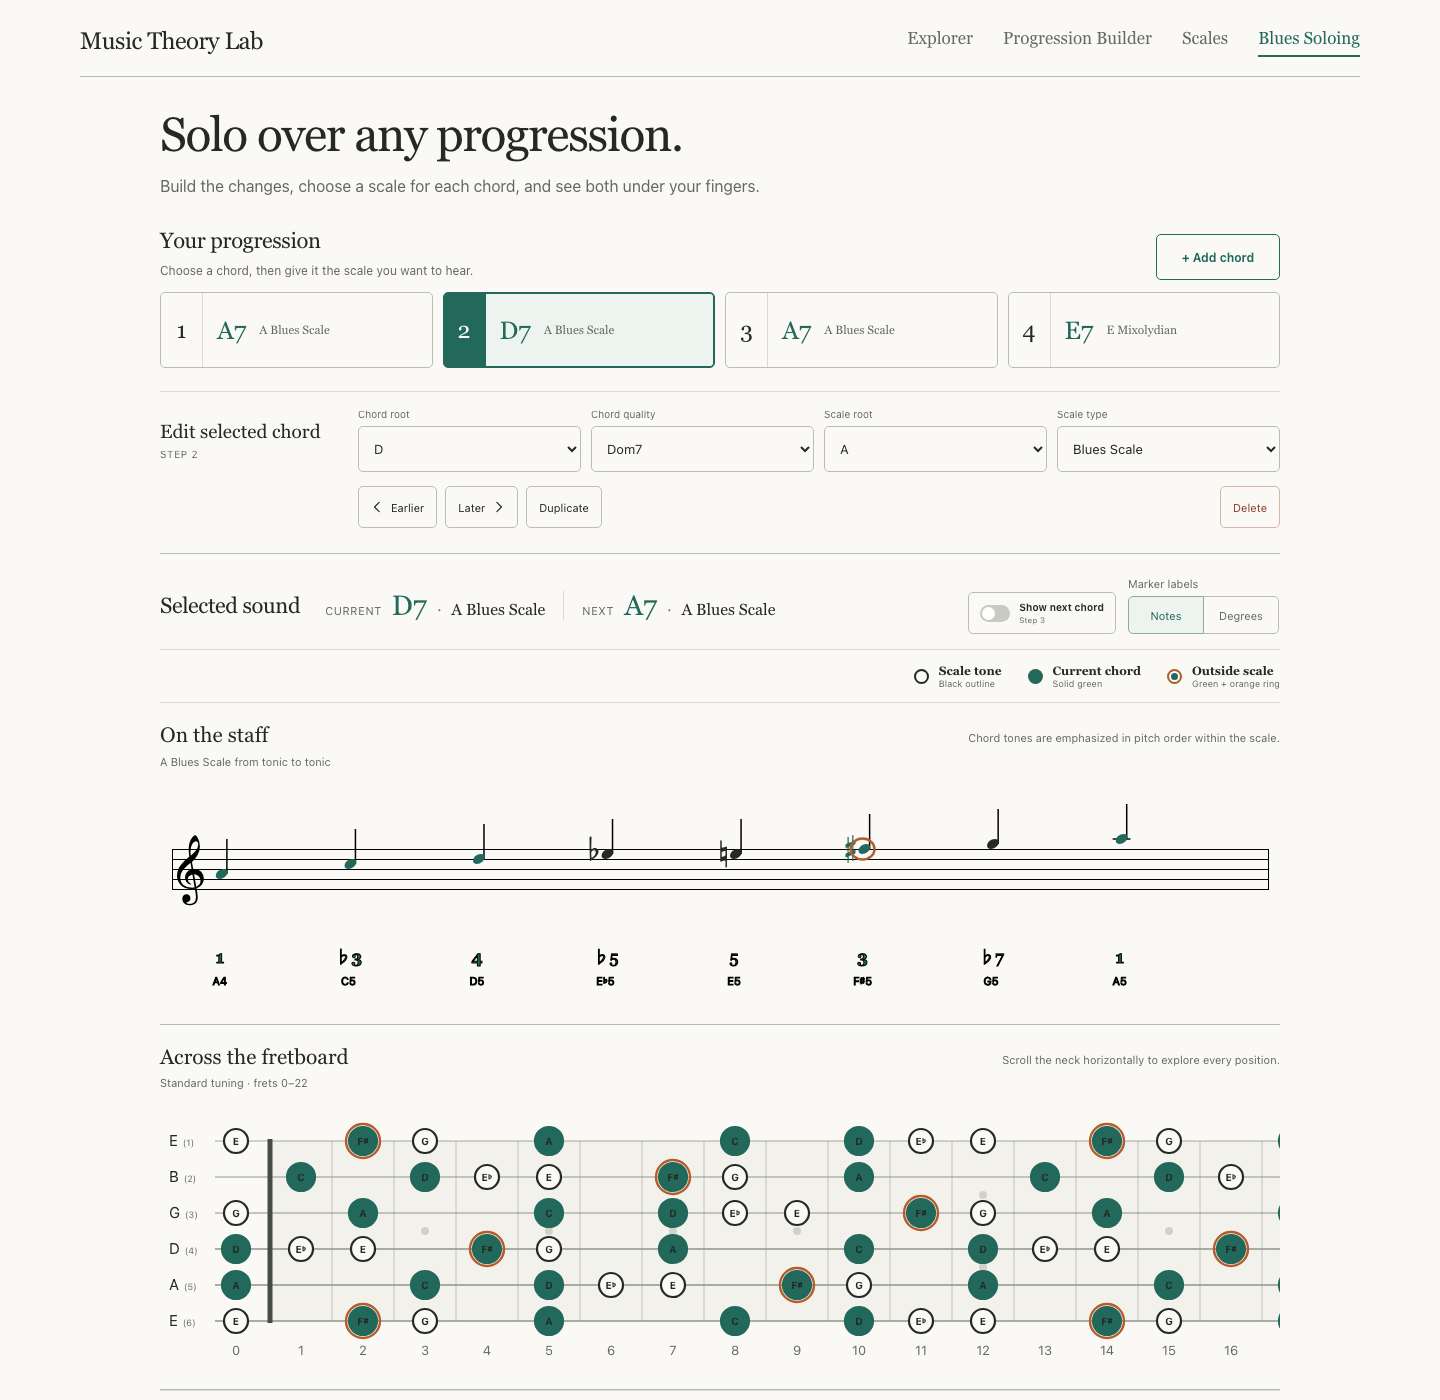
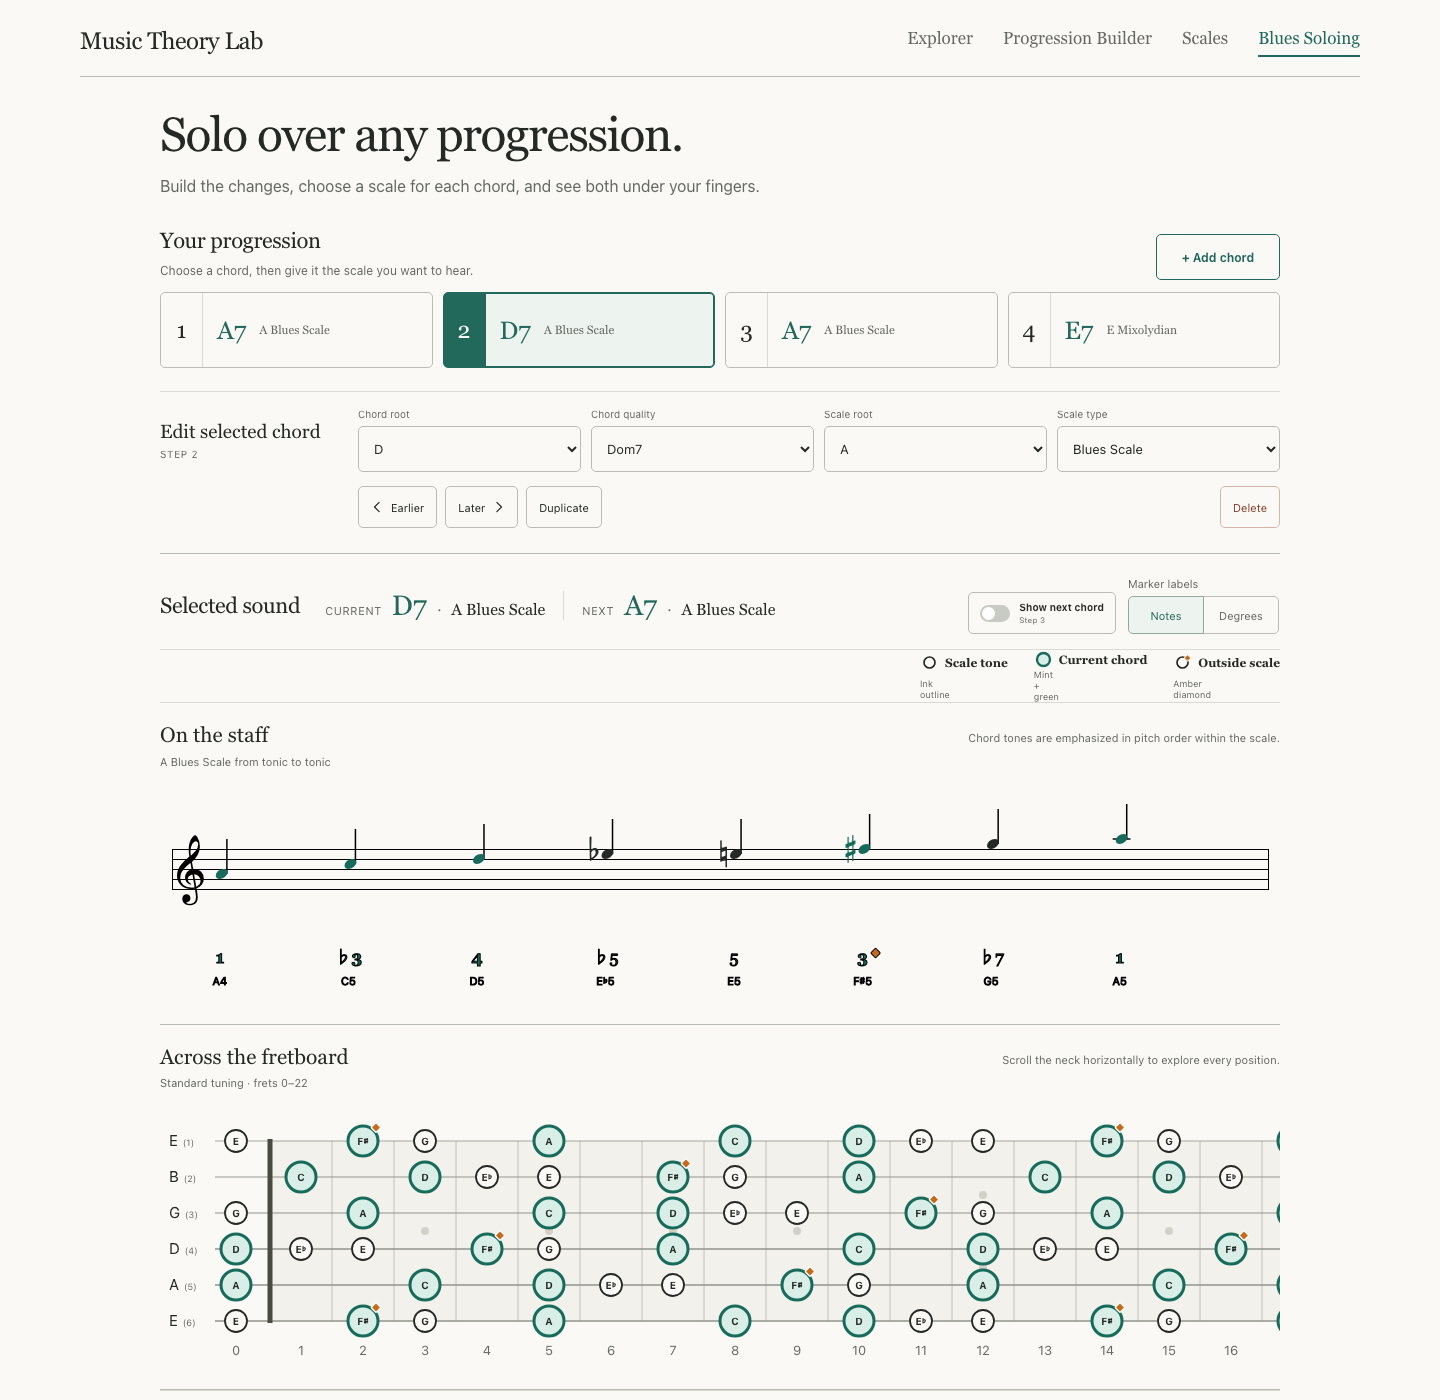
Redesign soloing note markers

diff --git a/src/components/SoloingFretboardView.tsx b/src/components/SoloingFretboardView.tsx
@@ -4,8 +4,10 @@ import { displayNote } from '../presentation/notes'
 
 export type SoloingLabelMode = 'notes' | 'degrees'
 
-const CURRENT_COLOR = '#22685b'
-const NEXT_COLOR = '#b55c2a'
+const CURRENT_COLOR = '#176b5b'
+const CURRENT_FILL = '#d8eee7'
+const OUTSIDE_COLOR = '#c56a1a'
+const NEXT_COLOR = '#4666b0'
 const SCALE_COLOR = '#252925'
 const PAPER_COLOR = '#faf9f6'
 
@@ -33,19 +35,27 @@ interface LegendMarkerProps {
 }
 
 function LegendMarker({ kind }: LegendMarkerProps) {
-  const common = { display: 'block', width: 15, height: 15, borderRadius: '50%' }
-  if (kind === 'scale') return <i aria-hidden="true" style={{ ...common, background: PAPER_COLOR, border: `2px solid ${SCALE_COLOR}` }} />
-  if (kind === 'current') return <i aria-hidden="true" style={{ ...common, background: CURRENT_COLOR }} />
-  if (kind === 'next') return <i aria-hidden="true" style={{ ...common, background: PAPER_COLOR, border: `2px solid ${NEXT_COLOR}` }} />
-  return <i aria-hidden="true" style={{ ...common, background: CURRENT_COLOR, border: `2px solid ${NEXT_COLOR}`, outline: `2px solid ${PAPER_COLOR}`, outlineOffset: -4 }} />
+  const current = kind === 'current'
+  return <svg aria-hidden="true" width="19" height="19" viewBox="0 0 19 19">
+    {kind === 'next' && <circle cx="9.5" cy="9.5" r="8" fill="none" stroke={NEXT_COLOR} strokeWidth="1.8" strokeDasharray="3 2" />}
+    <circle
+      cx="9.5"
+      cy="9.5"
+      r={current ? 6.5 : 5.5}
+      fill={current ? CURRENT_FILL : PAPER_COLOR}
+      stroke={current ? CURRENT_COLOR : SCALE_COLOR}
+      strokeWidth={current ? 2.4 : 1.7}
+    />
+    {kind === 'outside' && <rect x="12.1" y="2.6" width="4.8" height="4.8" rx=".7" fill={OUTSIDE_COLOR} stroke={PAPER_COLOR} strokeWidth="1" transform="rotate(45 14.5 5)" />}
+  </svg>
 }
 
 export function SoloingVisualLegend({ showNextChord = false }: { readonly showNextChord?: boolean }) {
   const items = [
-    { kind: 'scale' as const, label: 'Scale tone', detail: 'Black outline' },
-    { kind: 'current' as const, label: 'Current chord', detail: 'Solid green' },
-    ...(showNextChord ? [{ kind: 'next' as const, label: 'Next chord', detail: 'Orange outline' }] : []),
-    { kind: 'outside' as const, label: 'Outside scale', detail: 'Green + orange ring' },
+    { kind: 'scale' as const, label: 'Scale tone', detail: 'Ink outline' },
+    { kind: 'current' as const, label: 'Current chord', detail: 'Mint + green' },
+    { kind: 'outside' as const, label: 'Outside scale', detail: 'Amber diamond' },
+    ...(showNextChord ? [{ kind: 'next' as const, label: 'Next chord', detail: 'Blue dashed halo' }] : []),
   ]
   return <div className="transition-legend" aria-label="Soloing visualization legend">
     {items.map(item => <span key={item.kind}>
@@ -96,7 +106,7 @@ export function SoloingFretboardView({
     >
       <title id={titleId}>{displayNote(currentChord.name)} chord tones over {displayNote(scale.name)} on guitar</title>
       <desc id={descriptionId}>
-        High E is at the top and low E is at the bottom. Frets {model.fretStart} through {model.fretEnd}. White circles with black borders are selected-scale tones outside the current chord. Solid green markers are current-chord tones. An orange ring around a green marker means that chord tone falls outside the selected scale. {showNextChord && nextChord ? `Orange outlines also show tones in the next chord, ${displayNote(nextChord.name)}.` : 'The next-chord overlay is off.'} Labels show {labelMode === 'notes' ? 'note names' : 'degrees'}. {visiblePositions.map(position => `String ${position.string} fret ${position.fret}: ${displayNote(position.pitchClass.name)}, ${spokenRole(position, currentChord, nextChord, showNextChord)}`).join('; ')}.
+        High E is at the top and low E is at the bottom. Frets {model.fretStart} through {model.fretEnd}. Small paper circles with ink borders are selected-scale tones outside the current chord. Larger mint circles with heavy green borders are current-chord tones. An amber diamond marks a chord tone outside the selected scale. {showNextChord && nextChord ? `Blue dashed halos show tones in the next chord, ${displayNote(nextChord.name)}.` : 'The next-chord overlay is off.'} Labels show {labelMode === 'notes' ? 'note names' : 'degrees'}. {visiblePositions.map(position => `String ${position.string} fret ${position.fret}: ${displayNote(position.pitchClass.name)}, ${spokenRole(position, currentChord, nextChord, showNextChord)}`).join('; ')}.
       </desc>
 
       <rect x={nut} y="46" width={end - nut} height="180" className="transition-neck" fill="#f3f1eb" />
@@ -125,8 +135,7 @@ export function SoloingFretboardView({
         const isCurrent = Boolean(position.currentChordTone)
         const isNext = showNextChord && Boolean(position.nextChordTone)
         const isScale = Boolean(position.scaleTone)
-        const isCurrentOutsideScale = isCurrent && !isScale
-        const hasOrangeRing = isCurrentOutsideScale || isNext
+        const isOutsideScale = !isScale
         const label = markerLabel(position, labelMode, showNextChord)
         const x = fretX(position.fret)
         const y = stringY(position.string)
@@ -134,23 +143,35 @@ export function SoloingFretboardView({
         return <g key={`${position.string}-${position.fret}`} className="transition-position" transform={`translate(${x}, ${y})`}>
           <circle
             className="transition-marker"
-            r={isCurrent ? 14 : 12}
-            fill={isCurrent ? CURRENT_COLOR : PAPER_COLOR}
-            stroke={isCurrent ? CURRENT_COLOR : isScale ? SCALE_COLOR : NEXT_COLOR}
-            strokeWidth="2.2"
+            r={isCurrent ? 15 : 11}
+            fill={isCurrent ? CURRENT_FILL : PAPER_COLOR}
+            stroke={isCurrent ? CURRENT_COLOR : isScale ? SCALE_COLOR : OUTSIDE_COLOR}
+            strokeWidth={isCurrent ? 3 : 1.8}
           />
-          {hasOrangeRing && <circle
-            r="17"
+          {isNext && <circle
+            r={isCurrent ? 19 : 15.5}
             fill="none"
             stroke={NEXT_COLOR}
-            strokeWidth="2.4"
+            strokeWidth="2.2"
+            strokeDasharray="4 3"
+          />}
+          {isOutsideScale && <rect
+            x={isCurrent ? 9.5 : 7}
+            y={isCurrent ? -17 : -14.5}
+            width="7"
+            height="7"
+            rx="1"
+            fill={OUTSIDE_COLOR}
+            stroke={PAPER_COLOR}
+            strokeWidth="1.5"
+            transform={`rotate(45 ${isCurrent ? 13 : 10.5} ${isCurrent ? -13.5 : -11})`}
           />}
           <text
             textAnchor="middle"
             dominantBaseline="central"
             className="transition-label"
-            fill={isCurrent ? '#fff' : isScale ? SCALE_COLOR : NEXT_COLOR}
-            fontSize="10"
+            fill={SCALE_COLOR}
+            fontSize={isCurrent ? 11 : 9.5}
             fontWeight="700"
           >{label}</text>
         </g>

diff --git a/src/components/SoloingStaffView.tsx b/src/components/SoloingStaffView.tsx
@@ -4,9 +4,9 @@ import type { SoloingStaffModel, SoloingStaffTone } from '../music/soloing'
 import { displayNote } from '../presentation/notes'
 
 const SCALE_COLOR = '#252925'
-const CURRENT_COLOR = '#22685b'
-const NEXT_COLOR = '#b55c2a'
-const PAPER_COLOR = '#faf9f6'
+const CURRENT_COLOR = '#176b5b'
+const OUTSIDE_COLOR = '#c56a1a'
+const NEXT_COLOR = '#4666b0'
 
 function vexKey(tone: SoloingStaffTone) {
   const { pitch } = tone
@@ -35,16 +35,29 @@ function appendText(svg: SVGSVGElement, x: number, y: number, text: string, opti
   svg.append(label)
 }
 
-function appendRing(svg: SVGSVGElement, x: number, y: number, radius: number, color: string) {
+function appendNextHalo(svg: SVGSVGElement, x: number, y: number, radius: number) {
   const ring = document.createElementNS(svg.namespaceURI, 'ellipse')
   ring.setAttribute('cx', String(x))
   ring.setAttribute('cy', String(y))
   ring.setAttribute('rx', String(radius))
   ring.setAttribute('ry', String(radius - 1.5))
   ring.setAttribute('fill', 'none')
-  ring.setAttribute('stroke', color)
-  ring.setAttribute('stroke-width', '2.4')
+  ring.setAttribute('stroke', NEXT_COLOR)
+  ring.setAttribute('stroke-width', '2.2')
+  ring.setAttribute('stroke-dasharray', '4 3')
   svg.append(ring)
+}
+
+function appendOutsideDiamond(svg: SVGSVGElement, x: number, y: number) {
+  const diamond = document.createElementNS(svg.namespaceURI, 'rect')
+  diamond.setAttribute('x', String(x - 3.5))
+  diamond.setAttribute('y', String(y - 3.5))
+  diamond.setAttribute('width', '7')
+  diamond.setAttribute('height', '7')
+  diamond.setAttribute('rx', '1')
+  diamond.setAttribute('fill', OUTSIDE_COLOR)
+  diamond.setAttribute('transform', `rotate(45 ${x} ${y})`)
+  svg.append(diamond)
 }
 
 function describeTone(tone: SoloingStaffTone, showNextChord: boolean) {
@@ -102,12 +115,11 @@ export default function SoloingStaffView({ model, showNextChord = false }: Soloi
 
       const notes = visibleTones.map(tone => {
         const note = new StaveNote({ keys: [vexKey(tone)], duration: 'q' })
-        const isNextOnlyOutsideScale = !tone.isCurrentChordTone && tone.isNextChordTone && tone.isOutsideScale
-        const color = tone.isCurrentChordTone ? CURRENT_COLOR : isNextOnlyOutsideScale ? NEXT_COLOR : SCALE_COLOR
+        const color = tone.isCurrentChordTone ? CURRENT_COLOR : SCALE_COLOR
         note.setKeyStyle(0, {
-          fillStyle: isNextOnlyOutsideScale ? PAPER_COLOR : color,
+          fillStyle: color,
           strokeStyle: color,
-          lineWidth: isNextOnlyOutsideScale ? 2.2 : 1.4,
+          lineWidth: 1.4,
         })
         return note
       })
@@ -130,14 +142,11 @@ export default function SoloingStaffView({ model, showNextChord = false }: Soloi
         const x = note.getNoteHeadBeginX() + 4
         const y = note.getYs()[0]
 
-        // Orange rings flag either an out-of-scale current chord tone or a
-        // pitch available in the next chord. Draw only one ring when both apply.
-        if ((tone.isCurrentChordTone && tone.isOutsideScale) || (showNextChord && tone.isNextChordTone)) {
-          appendRing(svg, x, y, 12, NEXT_COLOR)
-        }
+        if (showNextChord && tone.isNextChordTone) appendNextHalo(svg, x, y, 12)
+        if (tone.isOutsideScale) appendOutsideDiamond(svg, x + 13, 179)
 
         appendText(svg, x, 189, displayNote(toneDegree(tone)), {
-          color: tone.isCurrentChordTone ? CURRENT_COLOR : tone.isOutsideScale ? NEXT_COLOR : SCALE_COLOR,
+          color: tone.isCurrentChordTone ? CURRENT_COLOR : SCALE_COLOR,
           family: "Georgia, 'Times New Roman', serif",
           size: 17,
           weight: tone.isCurrentChordTone ? '700' : undefined,
@@ -172,9 +181,9 @@ export default function SoloingStaffView({ model, showNextChord = false }: Soloi
   }, [model, showNextChord, visibleTones])
 
   const nextDescription = showNextChord && model.nextChord
-    ? ` Orange outlines mark tones in the next chord, ${displayNote(model.nextChord.name)}.`
+    ? ` Blue dashed halos mark tones in the next chord, ${displayNote(model.nextChord.name)}.`
     : ''
-  const description = `${displayNote(model.scale.name)}, ascending from tonic to tonic with chord tones placed in pitch order. Black notes belong to the selected scale. Solid green notes belong to the current chord, ${displayNote(model.currentChord.name)}; an orange ring around a green note marks a current-chord tone outside the selected scale.${nextDescription} ${visibleTones.map(tone => describeTone(tone, showNextChord)).join('; ')}.`
+  const description = `${displayNote(model.scale.name)}, ascending from tonic to tonic with chord tones placed in pitch order. Black notes belong to the selected scale. Green notes belong to the current chord, ${displayNote(model.currentChord.name)}; amber diamonds mark chord tones outside the selected scale.${nextDescription} ${visibleTones.map(tone => describeTone(tone, showNextChord)).join('; ')}.`
 
   return <div
     className="blues-staff-scroll scale-staff-scroll"

diff --git a/docs/design/blues-progression-v2-verification.md b/docs/design/blues-progression-v2-verification.md
@@ -10,9 +10,9 @@ This pass supersedes the fixed 12-bar Blues Soloing design. It implements the co
 | Progression | Selectable numbered chord/scale cards | Horizontal rail with stable selection, add, move, duplicate, and delete |
 | Editor | Chord root/type plus independent scale root/type | Four direct selects with the requested six qualities and seven scales |
 | Current sound | Current and next harmony side by side | Live summary with a wrapping immediate-next chord |
-| Staff | Scale from tonic to tonic with chord emphasis | VexFlow notation: scale tones and current chord tones combined in ascending pitch order, including orange-ringed out-of-scale tones |
-| Fretboard | One legible full-neck map | Standard tuning, frets 0–22, local horizontal scroll, Notes/Degrees labels; black-outlined scale tones with readable labels, solid-green chord tones, and orange-ringed out-of-scale chord tones |
-| Overlay | Optional look-ahead | Next-chord toggle adds orange outlines on both staff and fretboard |
+| Staff | Scale from tonic to tonic with chord emphasis | VexFlow notation: scale tones and green current-chord tones combined in ascending pitch order, with amber diamonds marking out-of-scale tones |
+| Fretboard | One legible full-neck map | Standard tuning, frets 0–22, local horizontal scroll, Notes/Degrees labels; neutral scale tones, larger mint/green current-chord tones, and amber-diamond out-of-scale tones |
+| Overlay | Optional look-ahead | Next-chord toggle adds independent blue dashed halos on both staff and fretboard |
 | Responsive | Compact mobile controls and locally scrolling diagrams | Verified at 390 × 844 with no document-level horizontal overflow |
 
 The concepts supplied the visual hierarchy, spacing, typography, palette, and interaction grouping. Tonal and VexFlow remain the authority for pitch spelling and notation, correcting the illustrative note content in the generated concepts.

diff --git a/docs/design/blues-progression-v2-spec.md b/docs/design/blues-progression-v2-spec.md
@@ -28,10 +28,11 @@ Mobile concept: `blues-progression-mobile-v2.png`
 - Background: warm paper `#faf9f6`.
 - Text: ink `#252925`, muted `#656961`.
 - Lines: `#d9dbd3` with stronger section rules where hierarchy needs them.
-- Selected-scale tone outside the current chord: paper fill with an ink `#252925` outline and ink label.
-- Current chord tone inside the scale: solid green `#22685b`.
-- Current chord tone outside the selected scale: solid green `#22685b` with an orange outer ring.
-- Next chord: orange outline; shared current/next tone: green fill with an orange outer ring.
+- Selected-scale tone outside the current chord: small paper marker with an ink `#252925` outline and ink label.
+- Current chord tone: larger pale-mint `#d8eee7` marker with a heavy green `#176b5b` border and bold ink label on the fretboard; solid green notehead on the staff.
+- Chord tone outside the selected scale: amber `#c56a1a` diamond attached to the marker or placed beside the staff degree.
+- Next chord: cobalt `#4666b0` dashed outer halo. Shared tones retain their base marker and add the halo.
+- Role treatments compose independently so a current/next/outside tone shows the current marker, amber diamond, and blue halo together.
 - On the staff, chord tones outside the scale are inserted at their chromatic pitch position inside the tonic-to-tonic run.
 - Display type uses Georgia; UI controls use the system sans-serif stack.
 - Open rails and bands are preferred to nested cards. Controls retain 5px radii and at least 44px touch targets.
